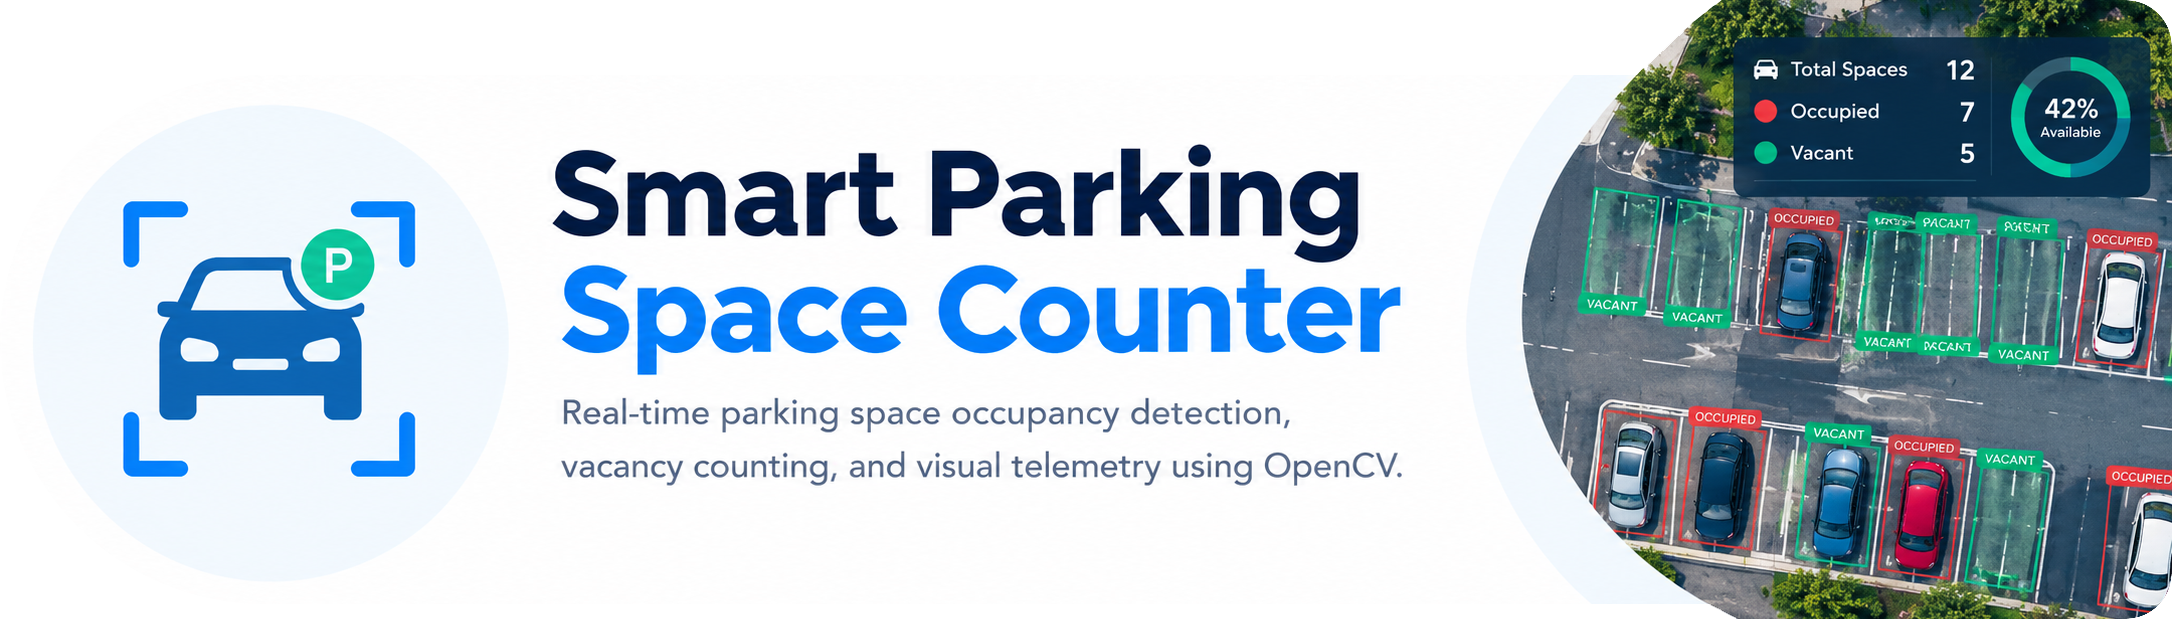
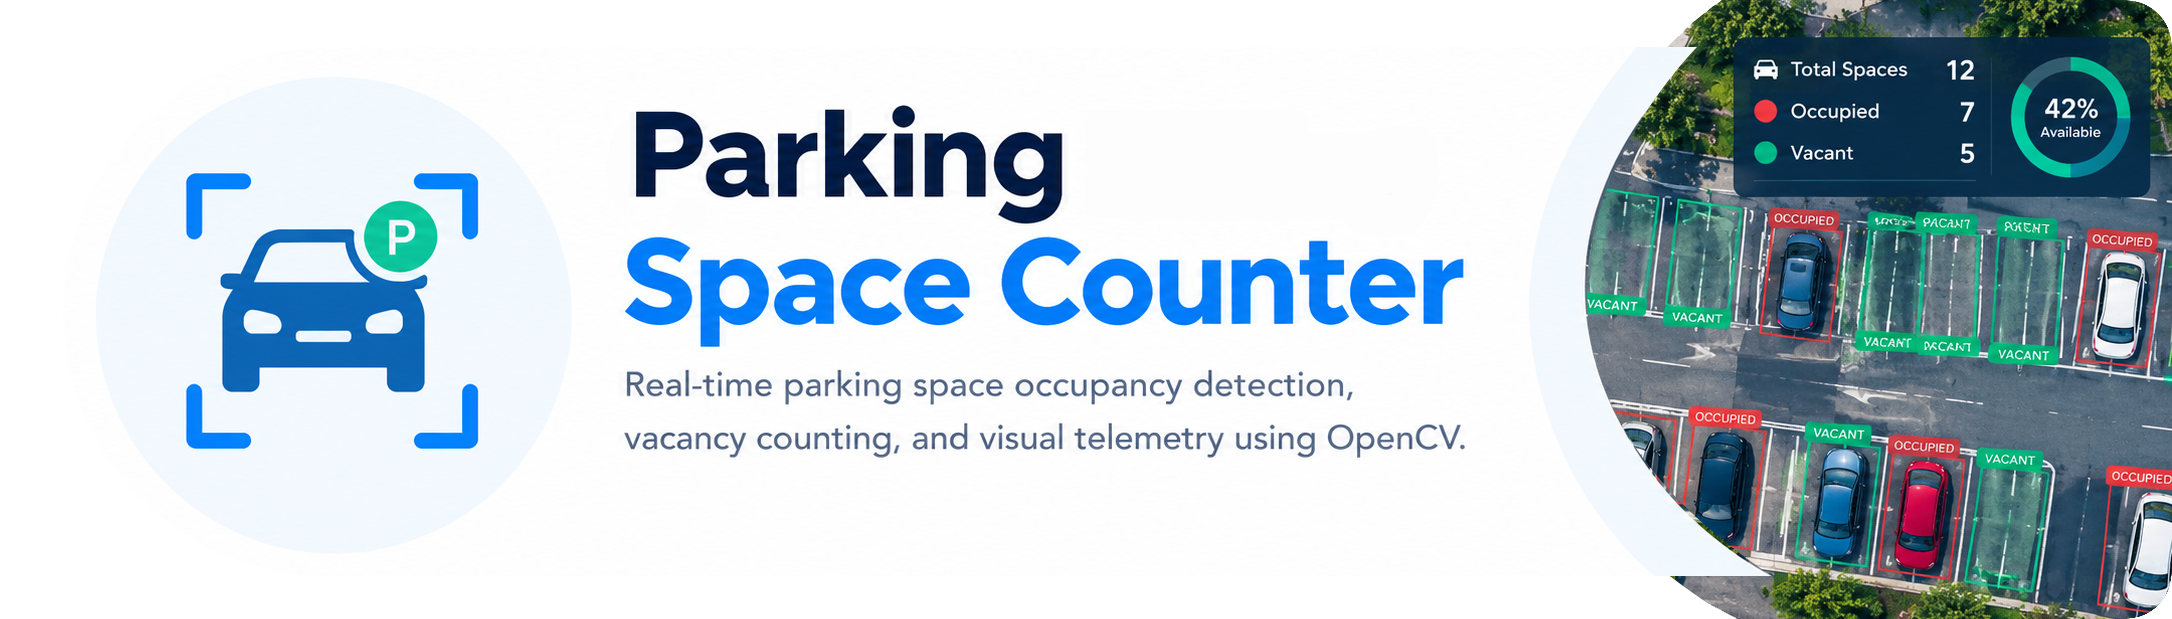
update

Changed region(s): [[0.0308, 0.0614, 0.8329, 0.9515]]

diff --git a/README.md b/README.md
@@ -1,4 +1,4 @@
-# Smart Parking Space Counter
+# **Parking Space Counter**
 
 <div align="center"> 
   <img src="asset/banner.png" width="750" alt="Banner" style="border-radius: 10px;"> 
